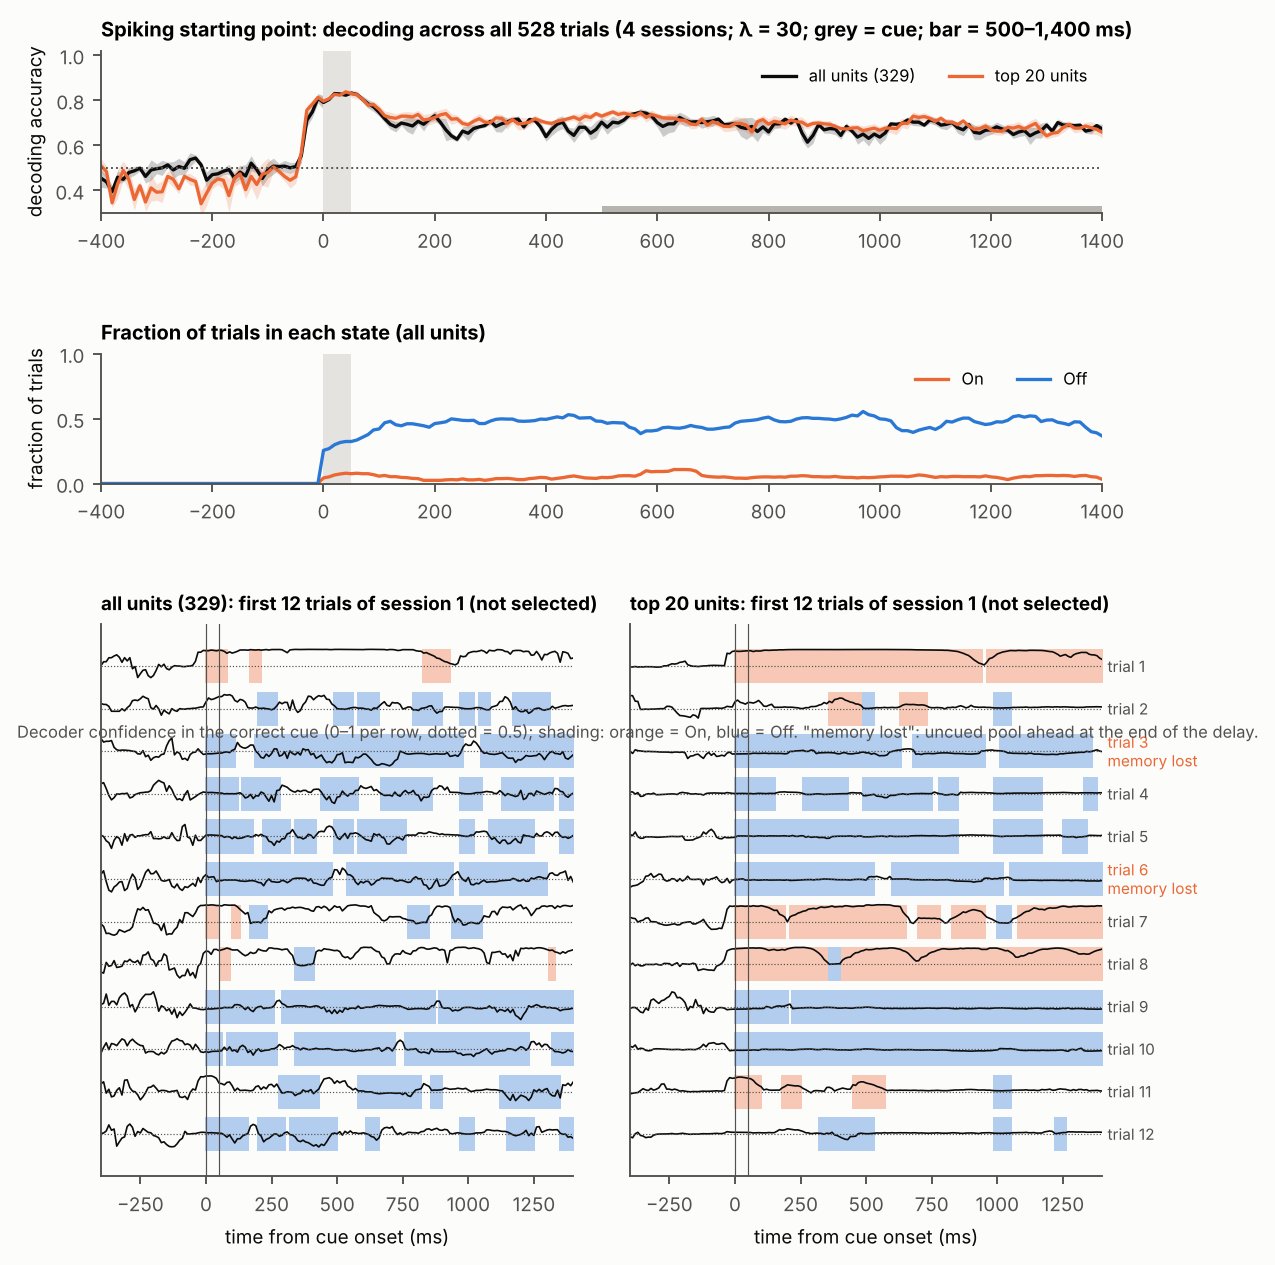
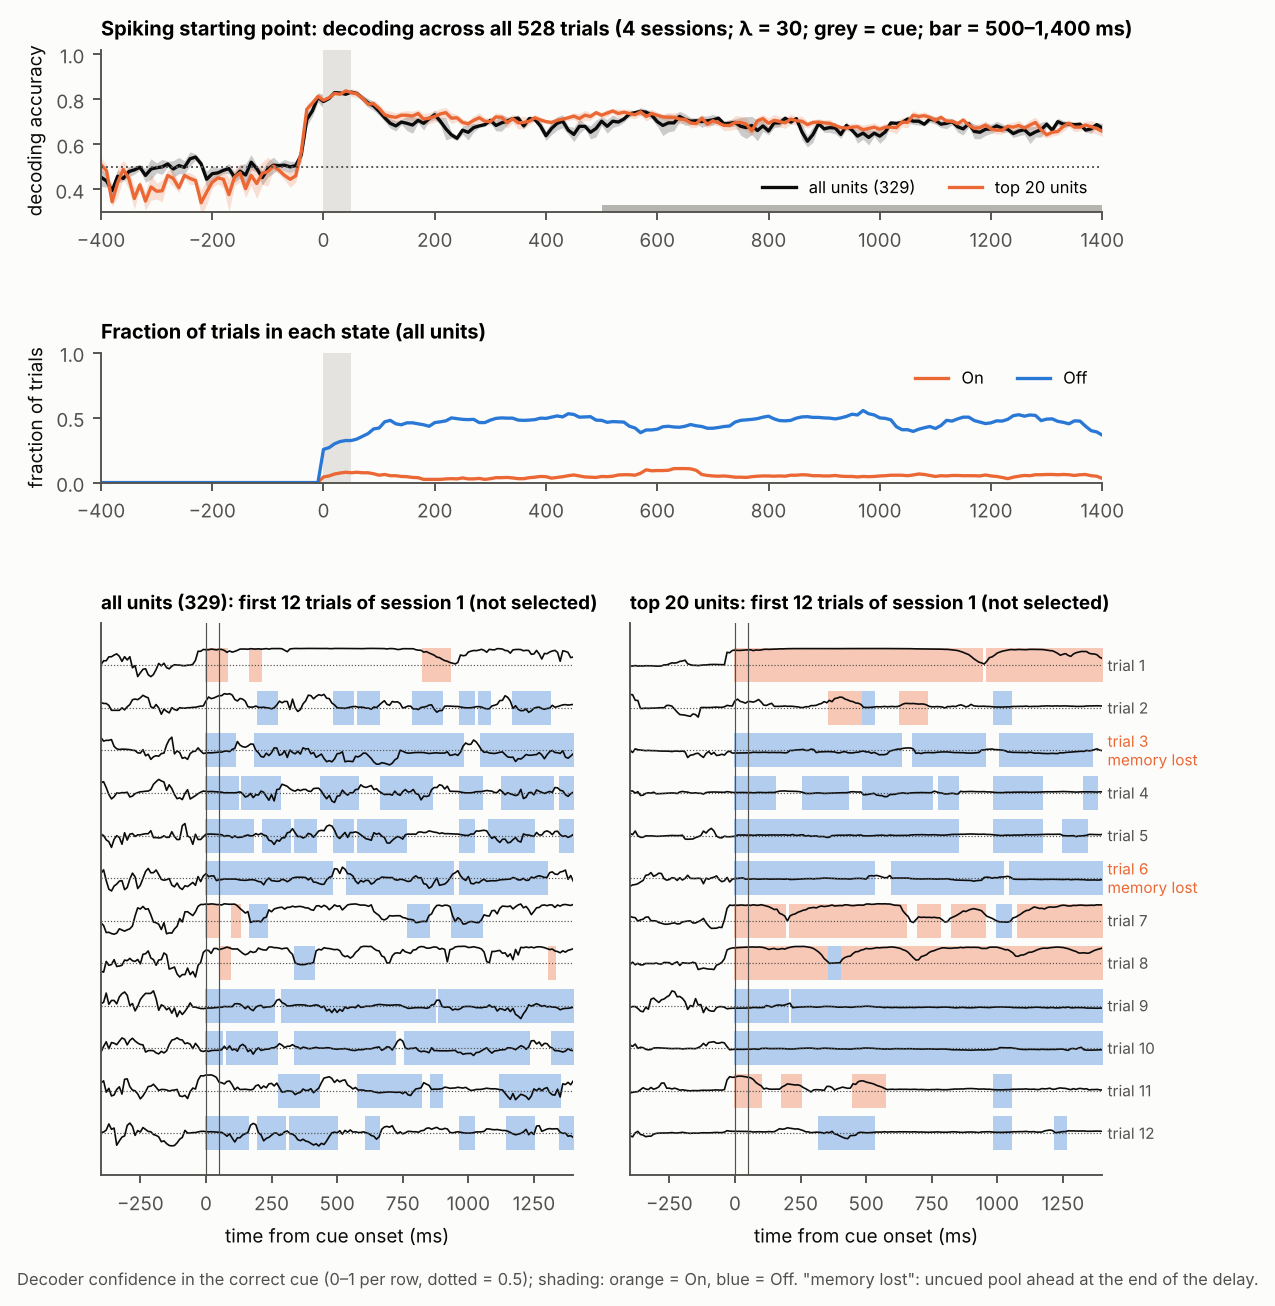
Spiking starting point, memory-kept trials only (66 per cue per network): histograms and decoding vs data
Claude-Session: https://claude.ai/code/session_01DWA8oLxpZgubPZ4A6kb3Lh

diff --git a/scripts/mf_figures.py b/scripts/mf_figures.py
@@ -443,7 +443,7 @@ def fig_spiking_decoding(tr='data/sp_start_traces', label='Spiking starting poin
     a.axhline(0.5, color=INK2, ls=':', lw=0.8); a.axvspan(0, 50, color='#e4e3df', lw=0)
     a.axvspan(500, 1400, ymin=0, ymax=0.04, color=MUTED, lw=0)
     a.set_xlim(t[0], t[-1]); a.set_ylim(0.3, 1.02); a.set_ylabel('decoding accuracy')
-    a.legend(fontsize=7, loc='upper right', ncol=2)
+    a.legend(fontsize=7, loc='lower right', ncol=2)
     n_tr = sum(len(x['y']) for x in S)
     a.set_title(f'{label}: decoding across all {n_tr} trials ({len(S)} sessions; λ = 30; grey = cue; '
                 'bar = 500–1,400 ms)', fontsize=8.5)
@@ -476,7 +476,7 @@ def fig_spiking_decoding(tr='data/sp_start_traces', label='Spiking starting poin
         a.axvline(0, color=INK2, lw=0.5); a.axvline(50, color=INK2, lw=0.5)
         a.set_xlim(t[0], t[-1]); a.set_yticks([]); a.set_xlabel('time from cue onset (ms)')
         a.set_title(f'{name}: first {n_show} trials of session {session + 1} (not selected)', fontsize=8)
-    fig.text(0.06, 0.41, 'Decoder confidence in the correct cue (0–1 per row, dotted = 0.5); shading: orange = On, '
+    fig.text(0.06, 0.035, 'Decoder confidence in the correct cue (0–1 per row, dotted = 0.5); shading: orange = On, '
              'blue = Off. "memory lost": uncued pool ahead at the end of the delay.', fontsize=7, color=INK2)
     f = os.path.join(OUT, out)
     fig.savefig(f, dpi=170, bbox_inches='tight')
